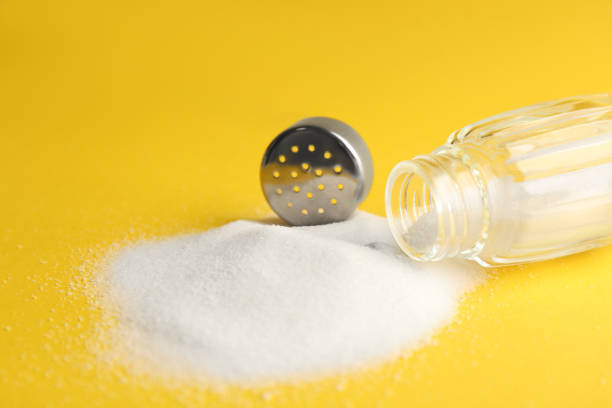
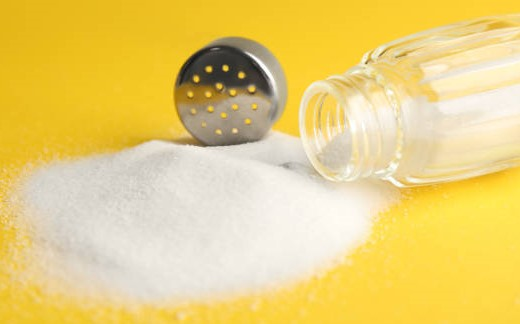
Se crearon y se agregaron las clases en el html y se recortaron las imagenes para enfocar más el producto

diff --git a/index.html b/index.html
@@ -55,45 +55,45 @@
             </div>
         </section>
 
-        <section>
-            <h3>Abarrotes</h3>
-            <a href="">ver todo (->)</a>
-            <div>
-                <div>
-                    <img src="./assets/img/aceite.jpg" alt="Aceite de cocina">
-                    <h5>Aceites de cocina</h5>
-                    <p>MXN $60.00</p>
+        <section class="galeriaProductos">
+            <h3 class="galeriaProductos__titulo">Abarrotes</h3>
+            <a class="galeriaProcutos__vermas" href="">ver todo (->)</a>
+            <div class="galeriaProductos__contenedor">
+                <div class="galeriaProductos__card">
+                    <img class="galeriaProductos__imagen" src="./assets/img/aceite.jpg" alt="Aceite de cocina">
+                    <h5 class="galeriaProductos__nombre">Aceites de cocina</h5>
+                    <p class="galeriaProductos__precio">MXN $60.00</p>
+                    <a class="galeriaProductos__link" href="#">ver producto</a>
+                </div>
+                <div class="galeriaProductos__card">
+                    <img class="galeriaProductos__imagen" src="./assets/img/pastas.jpg" alt="Pastas para comer">
+                    <h5 class="galeriaProductos__nombre">Pastas</h5>
+                    <p class="galeriaProductos__precio">MNX $10.00</p>
+                    <a class="galeriaProductos__link" href="#">ver producto</a>
+                </div>
+                <div class="galeriaProductos__card">
+                    <img class="galeriaProductos__imagen" src="./assets/img/leche.jpg" alt="Leche">
+                    <h5 class="galeriaProductos__nombre">Leche</h5>
+                    <p class="galeriaProductos__precio">MXN $30.00</p>
+                    <a class="galeriaProductos__link" href="#">ver producto</a>
+                </div>
+                <div class="galeriaProductos__card">
+                    <img class="galeriaProductos__imagen" src="./assets/img/verduras_enlatadas.jpg" alt="Verduras enlatadas">
+                    <h5 class="galeriaProductos__nombre">Verduras enlatadas</h5>
+                    <p class="galeriaProductos__precio">MXN $10.00</p>
+                    <a class="galeriaProductos__link" href="#">ver producto</a>
+                </div>
+                <div class="galeriaProductos__card">
+                    <img class="galeriaProductos__imagen" src="./assets/img/sal.jpg" alt="Sal de cocina">
+                    <h5 class="galeriaProductos__nombre">Sal</h5>
+                    <p class="galeriaProductos__precio">MNX $9.00</p>
                     <a href="#">ver producto</a>
                 </div>
-                <div>
-                    <img src="./assets/img/pastas.jpg" alt="Pastas para comer">
-                    <h5>Pastas</h5>
-                    <p>MNX $10.00</p>
-                    <a href="#">ver producto</a>
-                </div>
-                <div>
-                    <img src="./assets/img/leche.jpg" alt="Leche">
-                    <h5>Leche</h5>
-                    <p>MXN $30.00</p>
-                    <a href="#">ver producto</a>
-                </div>
-                <div>
-                    <img src="./assets/img/verduras_enlatadas.jpg" alt="Verduras enlatadas">
-                    <h5>Verduras enlatadas</h5>
-                    <p>MXN $10.00</p>
-                    <a href="#">ver producto</a>
-                </div>
-                <div>
-                    <img src="./assets/img/sal.jpg" alt="Sal de cocina">
-                    <h5>Sal</h5>
-                    <p>MNX $9.00</p>
-                    <a href="#">ver producto</a>
-                </div>
-                <div>
-                    <img src="./assets/img/catsup.jpg" alt="Catsup">
-                    <h5>Catsup</h5>
-                    <p>MNX $14.00</p>
-                    <a href="#">ver producto</a>
+                <div class="galeriaProductos__card">
+                    <img class="galeriaProductos__imagen" src="./assets/img/catsup.jpg" alt="Catsup">
+                    <h5 class="galeriaProductos__nombre">Catsup</h5>
+                    <p class="galeriaProductos__precio">MNX $14.00</p>
+                    <a class="galeriaProductos__link" href="#">ver producto</a>
                 </div>
             </div>
         </section>
